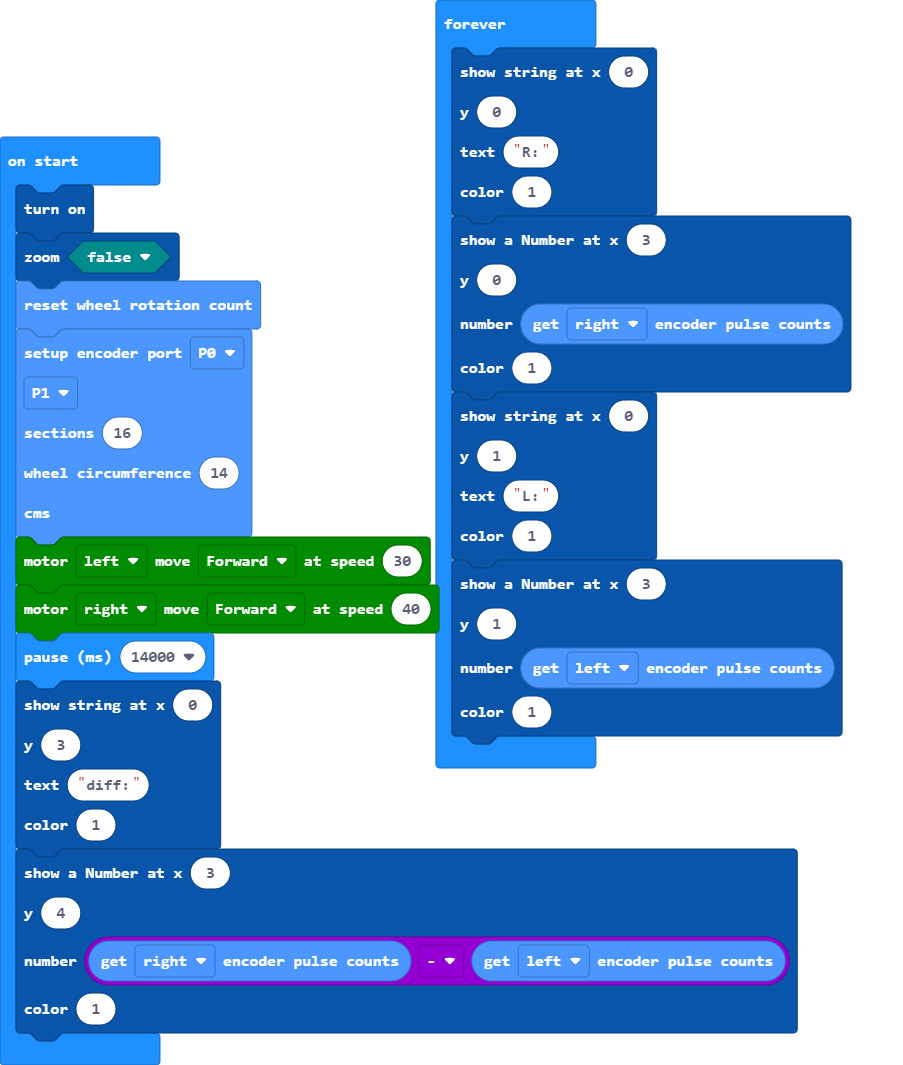
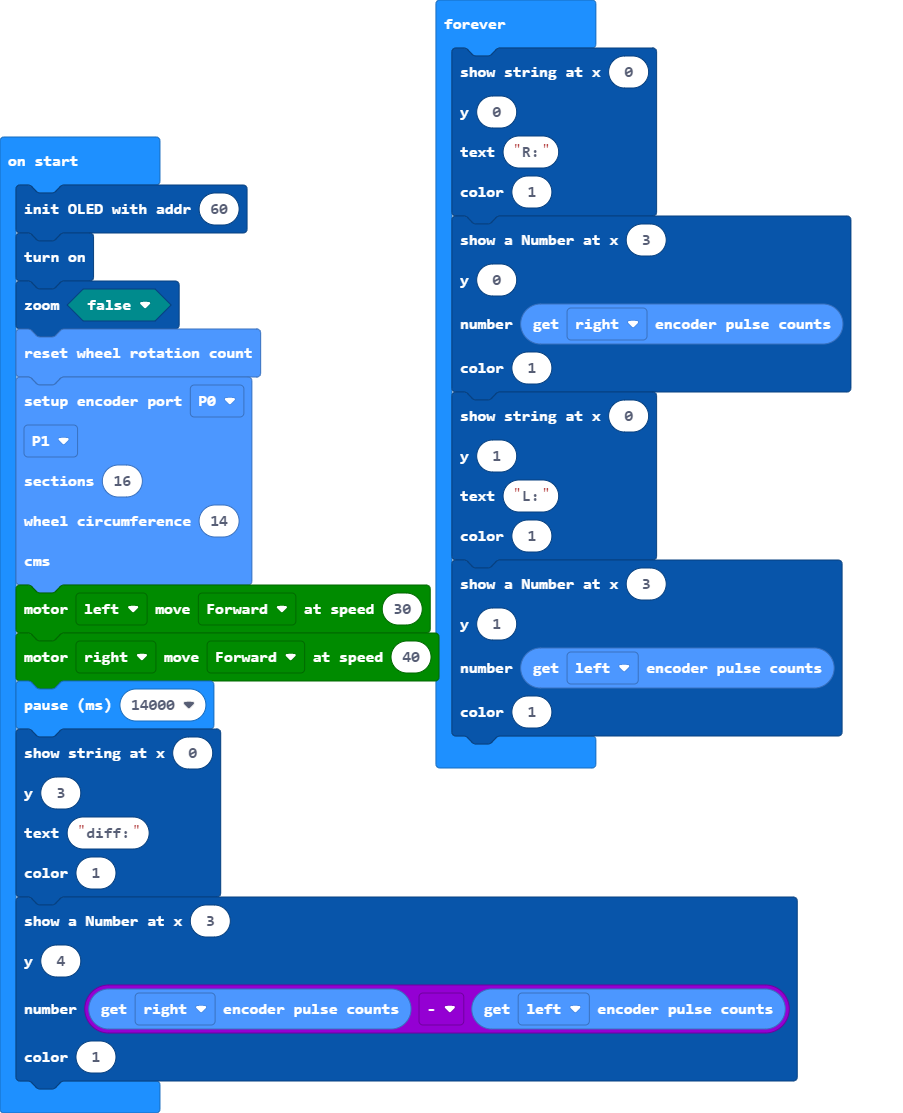
added 'init Oled with addr 60' block

Changed region(s): [[0.0, 0.031, 0.9612, 0.9915], [0.4961, 0.0, 0.5581, 0.031]]

diff --git a/main.ts b/main.ts
@@ -1,3 +1,4 @@
+OLED12864_I2C.init(60)
 OLED12864_I2C.on()
 OLED12864_I2C.zoom(false)
 OrientBit.resetWheelRotCnt()
